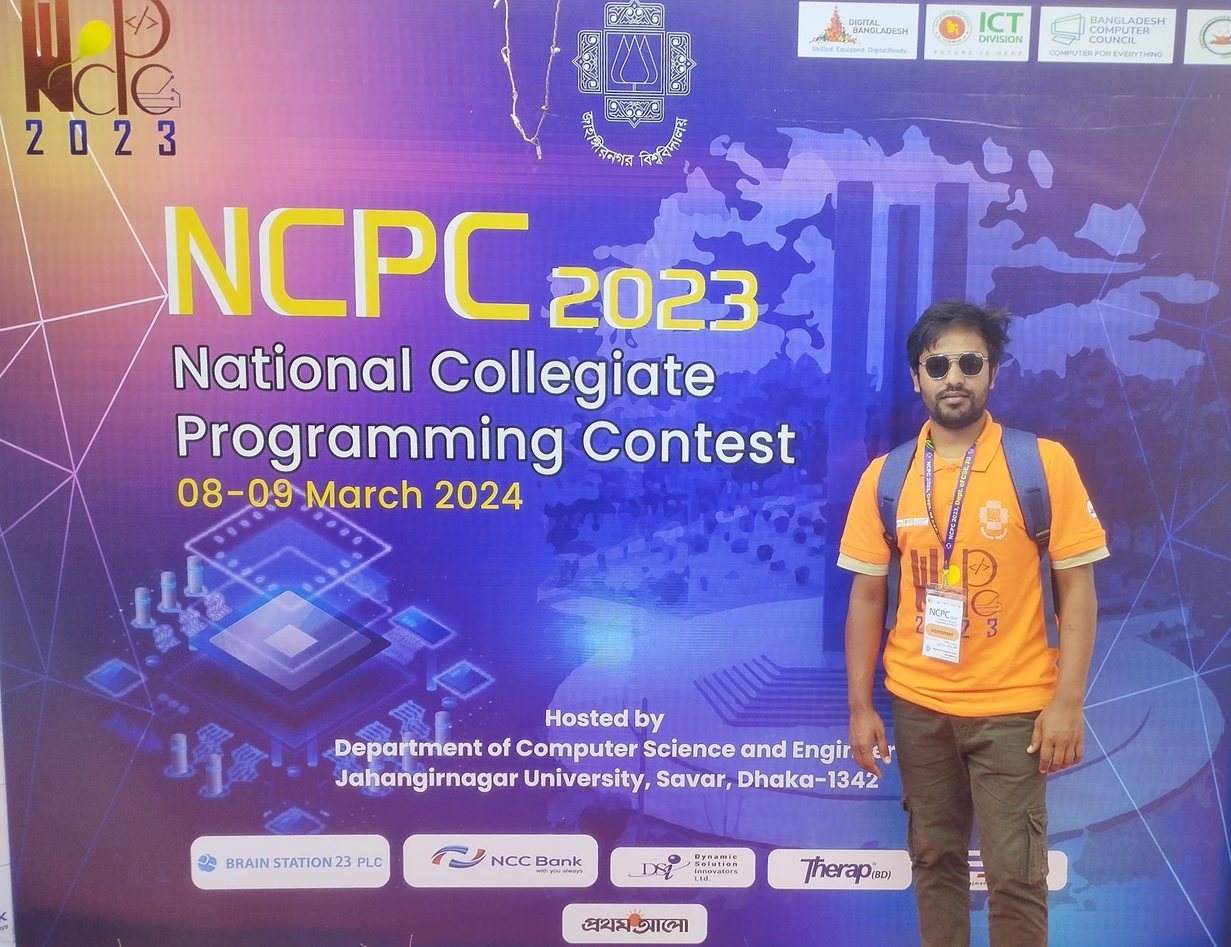
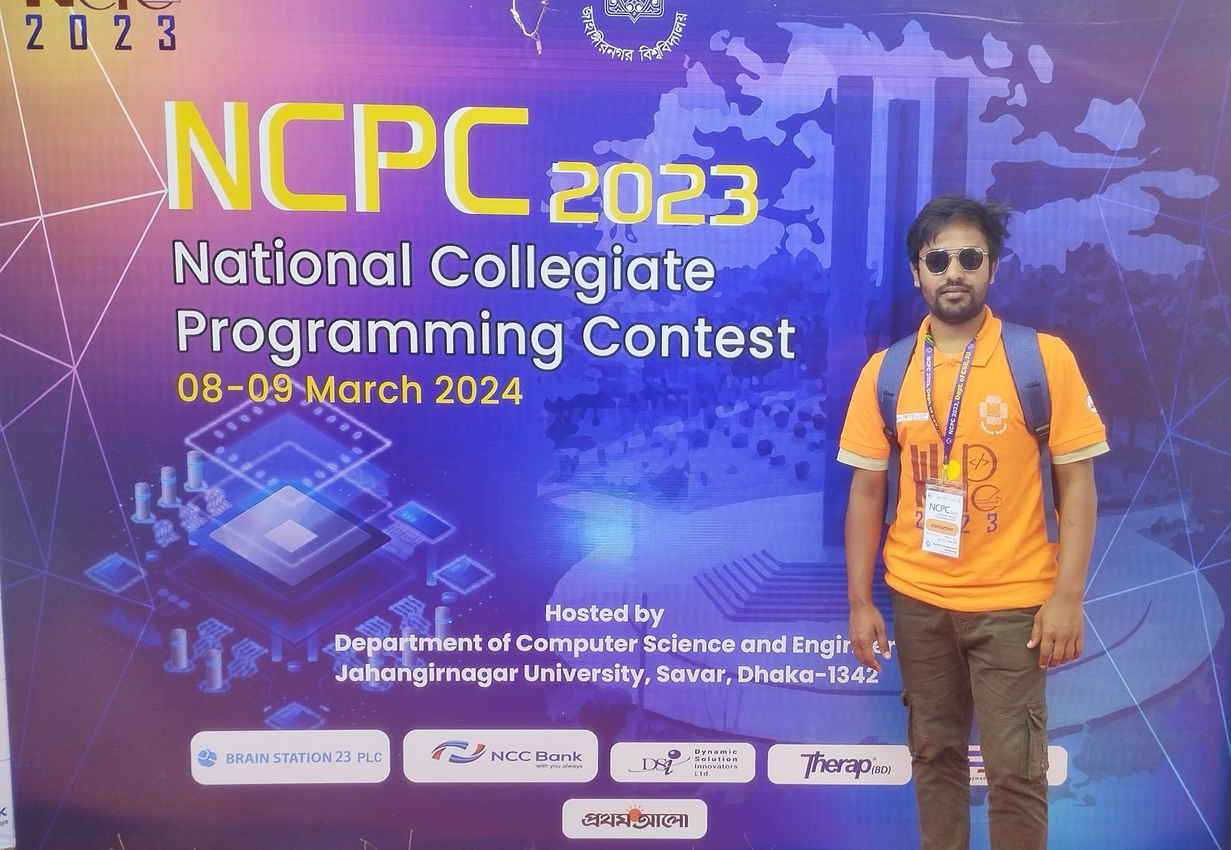
small fixes

diff --git a/index.html b/index.html
@@ -96,7 +96,7 @@
     <div class="container section-padding mb-4">
       <div class="row">
         <div class="col-xl-6 col-lg-6 col-md-12 col-sm-12 col-12 about-img-sec">
-          <img class="p-3 about-img" src="./assets/jk.jpg" alt="my-picture" />
+          <img class="about-img" src="./assets/jk.jpg" alt="my-picture" />
         </div>
         <div class="col-xl-6 col-lg-6 col-md-12 col-sm-12 col-12">
           <p>
